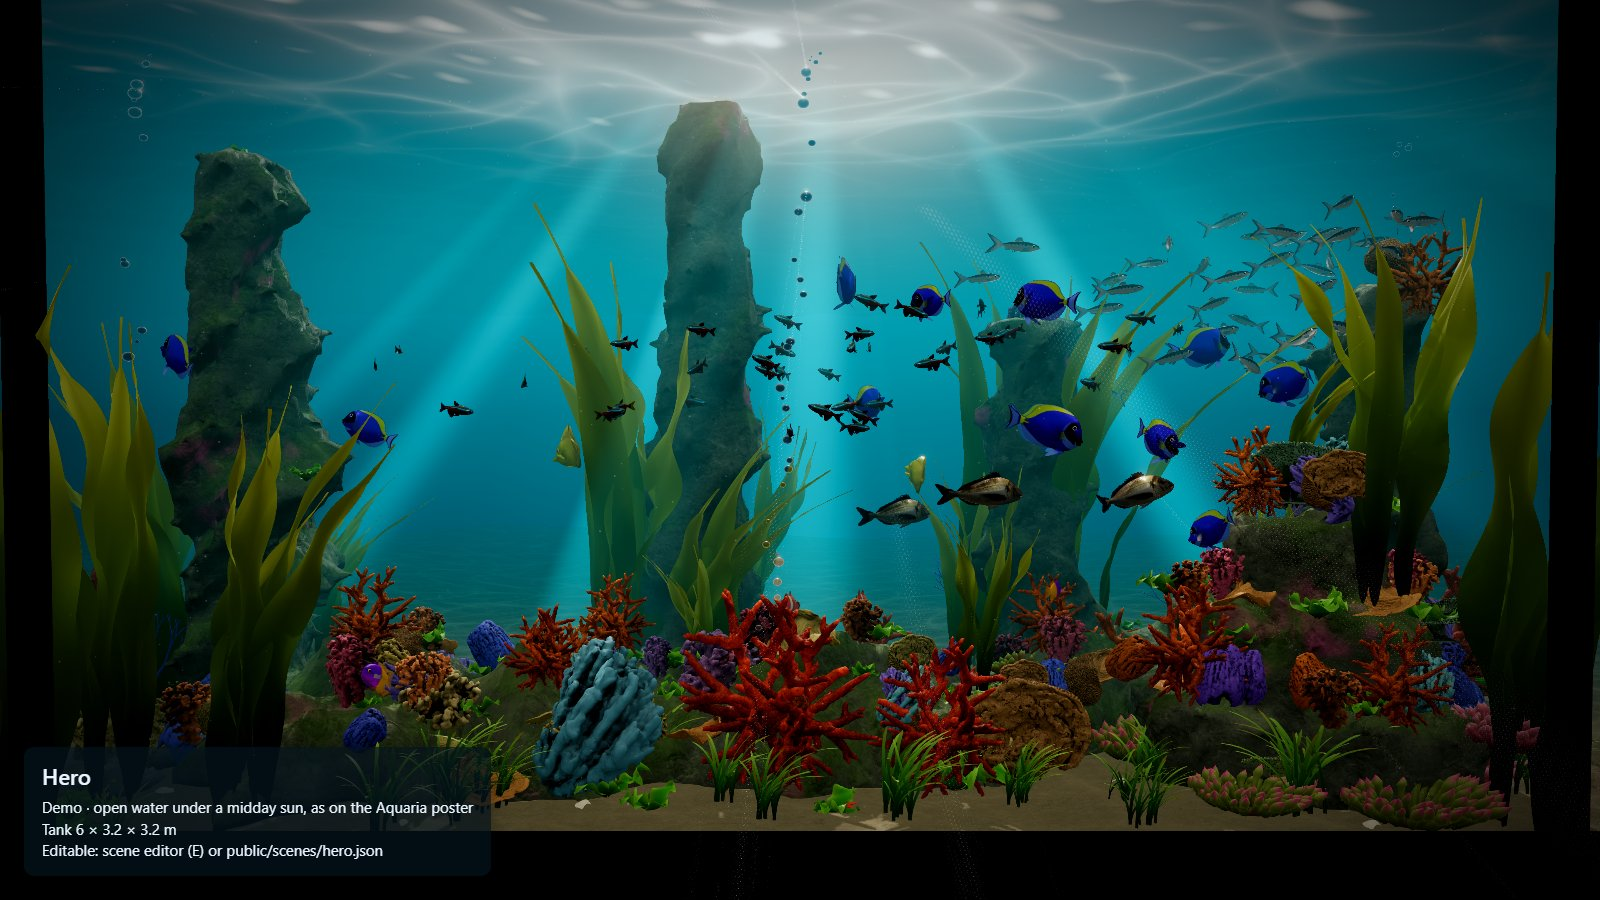
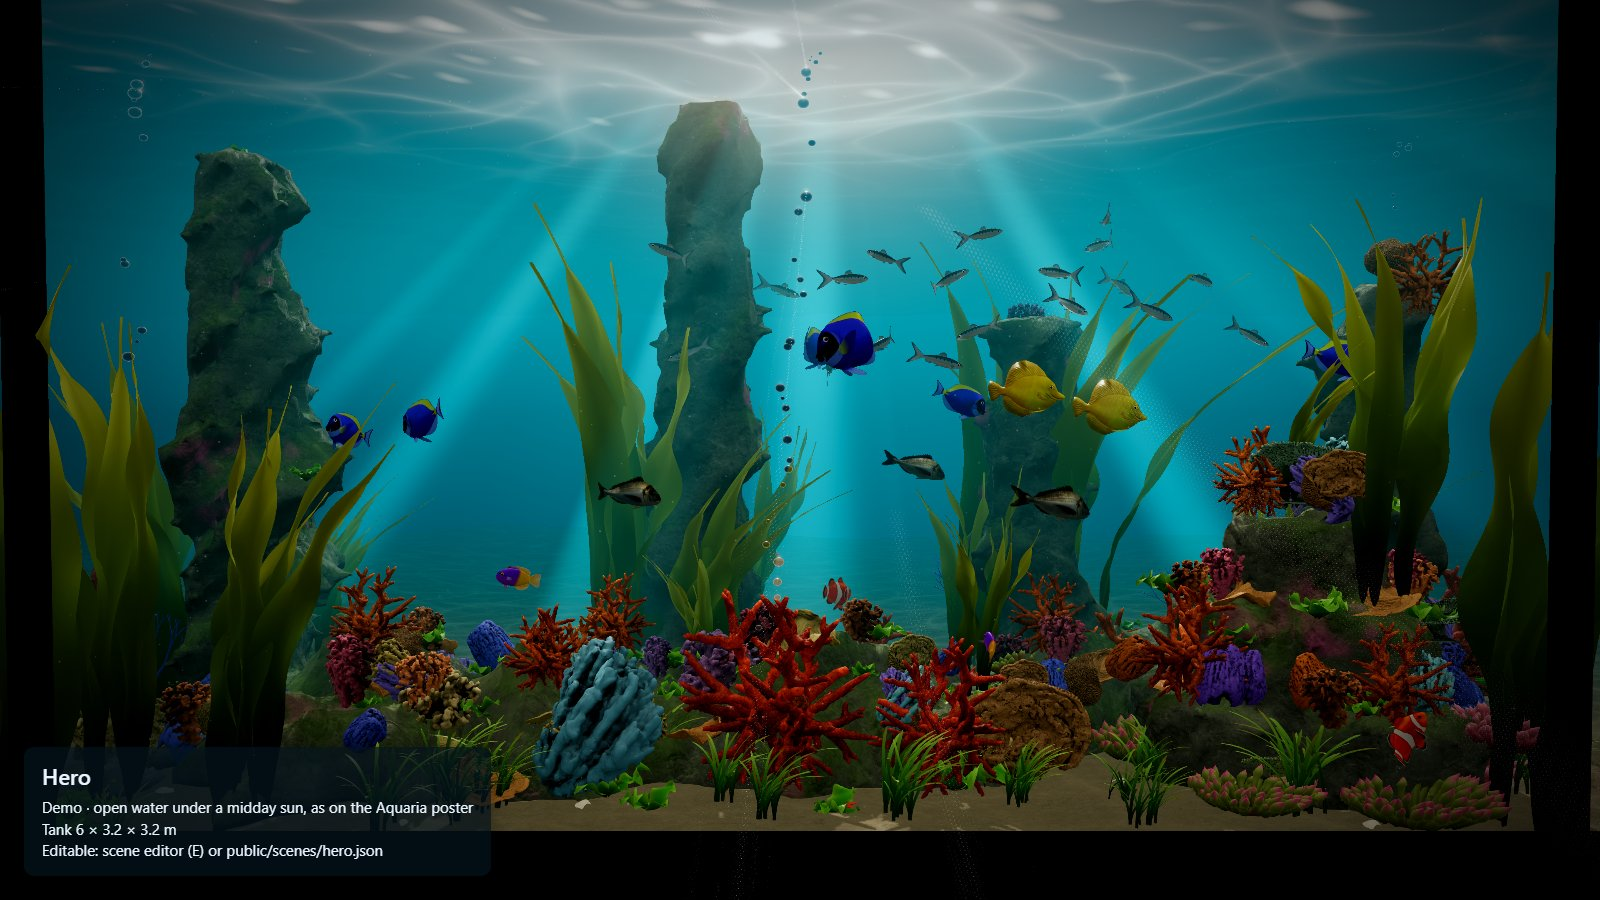
feat(scenes): the Hero with fewer fish (I6)
The user found the Hero crowded. No neon tetras (a freshwater fish in
open sea), 20 sardines instead of 45, 6 blue tangs instead of 12.

Measured on the Redmi Note 14 Pro (production build, 540p, 30 fps cap):
the Hero ran at 4 fps, 30 without fish, 6 to 10 without coral scans, 11
to 17 without block rock, so the fish were the cost. Now 8 to 10 fps.
Phones are not the target (the user): they open the Nano reef, at 30.
Gallery and card pictures and the visual baseline redone.

diff --git a/docs/ROADMAP.md b/docs/ROADMAP.md
@@ -437,11 +437,17 @@ tuned against reference photographs, with every parameter a slider.
 
 ### I6. Light enough for phones
 
-- [ ] Lighter versions where phones need them: coral scans at a few
-      thousand triangles further away (levels of detail), coarser block
-      rock, fewer seagrass tufts; measured on the Redmi Note 14 Pro.
-- [ ] The Hero scene runs at a usable frame rate on that phone; state the
-      numbers before and after.
+Aquaria is made for LED walls, not phones (the user, 2026-10-25): a phone
+opens the Nano reef, two clownfish and little scenery, and that is enough.
+
+- [x] What costs on the phone, measured on the Redmi Note 14 Pro
+      (production build, 540p, 30 fps cap): the Hero at 4 fps, the same
+      scene without fish at 30, without coral scans at 6 to 10, without
+      block rock at 11 to 17. The fish are the cost, not the corals; no
+      levels of detail needed. Nano reef and Tropical reef at 30.
+- [x] The Hero with fewer fish, asked by the user: no neon tetras (fresh
+      water), 20 sardines instead of 45, 6 blue tangs instead of 12.
+      On the phone 8 to 10 fps instead of 4.
 
 ## K. Fish maker
 
